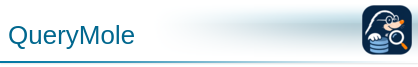
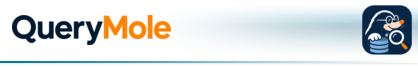
Show the QueryMole wordmark in the connect dialog header
The header showed the word "QueryMole" set in blue Liberation Sans by
make_branding.sh, a placeholder from the rename (ADR-0030). The project
now has a wordmark (assets/querymole-text.png); it goes in that place,
left of the icon, with its off-white background made transparent and
vertically centred on the icon.

make_branding.sh no longer sets any text, so it needs no font. Noted in
ADR-0033 as an addition of the same day. Checked by screenshot under
Linux.

Changed region(s): [[0.0, 0.209, 0.4354, 0.7463]]

diff --git a/docs/licenses.md b/docs/licenses.md
@@ -83,7 +83,7 @@ Recommendation: ask the Lazarus maintainers before the first public release.
 | `fonts/Vera*.ttf` (Bitstream Vera Mono) | Bitstream Vera licence: free to use, copy and redistribute, with the licence text accompanying; names may not be used for modified fonts. The text is embedded in the font; `docs/third-party/Bitstream-Vera-fonts.txt` holds it and the package includes it (`licenses/fonts/`). |
 | `fonts/tahoma.ttf`, `tahomabd.ttf` (Wine's stand-in for Tahoma; Linux and macOS packages only) | Copyright (c) 2004 Larry Snyder, derived from Bitstream Vera Sans (renamed, as the Vera licence demands), distributed by the Wine project under LGPL-2.1-or-later (the text is in the font's licence field and in `third_party/fonts/wine-tahoma/LICENSE-LGPL-2.1.txt`). Unmodified copies, so the licence is met by shipping the notices (`licenses/fonts/`); the fonts are loaded as data files, not linked into the program. Microsoft's Tahoma is not shipped. Provenance and checksums: `third_party/fonts/wine-tahoma/README.md`. |
 | Icons, images, resources compiled from `legacy/` | Part of the original GPL product (Copyright MySQL AB). OK; trademark aspects are separate (see below). |
-| QueryMole artwork and icon (`assets/querymole-about.png`, `assets/querymole-icon.png`; About picture, application icon and the other pictures made from them, ADR-0032, ADR-0033) | Generated by the project owner with an OpenAI image model (2026-11-15). OpenAI's terms assign the rights in the output, as far as any exist, to the user; a picture made without human authorship is probably not protected by copyright at all (DE, US). Either way nothing restricts shipping it with the program; it is distributed under the project's licence. No third party's notice is needed in `NOTICE`. |
+| QueryMole artwork, icon and wordmark (`assets/querymole-about.png`, `assets/querymole-icon.png`, `assets/querymole-text.png`; About picture, application icon and the other pictures made from them, ADR-0032, ADR-0033) | Generated by the project owner with an OpenAI image model (2026-11-15). OpenAI's terms assign the rights in the output, as far as any exist, to the user; a picture made without human authorship is probably not protected by copyright at all (DE, US). Either way nothing restricts shipping it with the program; it is distributed under the project's licence. No third party's notice is needed in `NOTICE`. |
 | `locale/*.po` translations | Original GPL product; translators' names are in the files. OK. |
 | Velopack (installer and `Update.exe` in the Setup) | Velopack is MIT licensed (not verified against the installed vpk 1.2.0 for this review). |
 

diff --git a/docs/adr/0033-querymole-icon-replaces-the-lightning-bolt.md b/docs/adr/0033-querymole-icon-replaces-the-lightning-bolt.md
@@ -1,6 +1,6 @@
 # ADR-0033 — The QueryMole icon replaces the lightning bolt
 
-- Status: Accepted (implemented; Windows not verified)
+- Status: Accepted (implemented; Windows not verified; wordmark in the connect header added the same day)
 - Date: 2026-11-15
 - Deciders: Harald Lapp (project owner)
 
@@ -22,10 +22,10 @@ makes the master square and writes, into `app/images/`:
 | `querymole.ico` (256, 128, 64, 48, 32, 24, 16) | `MAINICON` of `qbr.exe` (`build_resources.py`): Explorer, task bar, window icon on every platform (the LCL loads `MAINICON`); Velopack `--icon` (`package.sh`) |
 | `querymole.png` (256x256) | AppImage icon and `.DirIcon` (`package-appimage.sh`) |
 | `sakila.png` (56x54) | the picture top right in the main window: the icon at 48 pixels |
-| `connect_header_qb.png` | connect dialog header: the bolt painted over with the gradient left of it, the icon at 50 pixels in its place |
+| `connect_header_qb.png` | connect dialog header: the bolt painted over with the gradient left of it, the icon at 50 pixels in its place; on the left the QueryMole wordmark (`assets/querymole-text.png`, background made transparent, 30 pixels high) instead of the word set in Liberation Sans by ADR-0030 (added the same day) |
 
-All sizes are scaled from the one master; there is no hand-drawn small variant. `icotool` is no longer needed for
-the branding or the AppImage.
+All sizes are scaled from the one master (the wordmark from its own); there is no hand-drawn small variant. `icotool` and the Liberation Sans font are no
+longer needed for the branding or the AppImage.
 
 Not changed: the document icons `QueryFile.ico` and `SQLScriptFile.ico` (a page with a small bolt) are not compiled
 into the program and not used by anything; they stay in `legacy/`.
